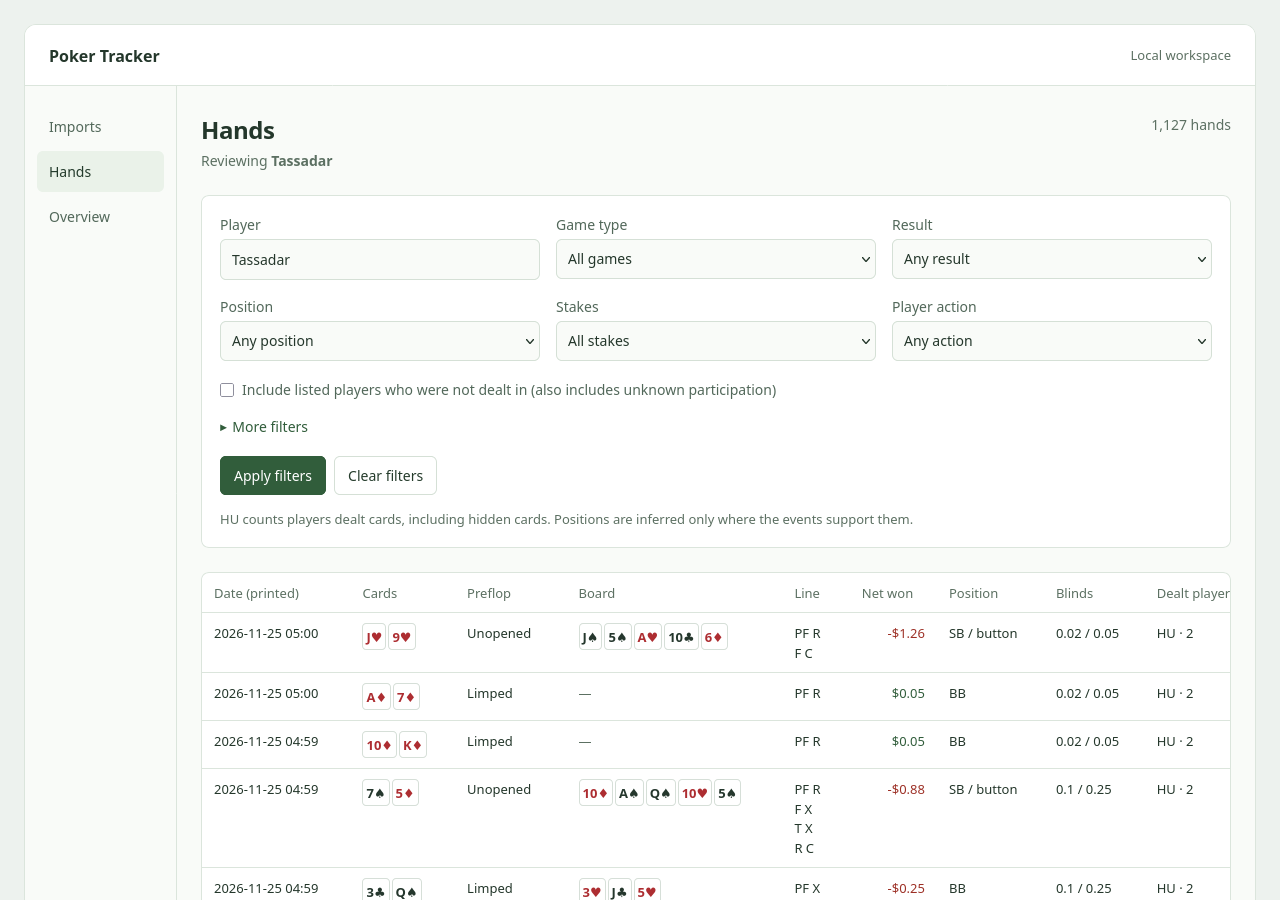
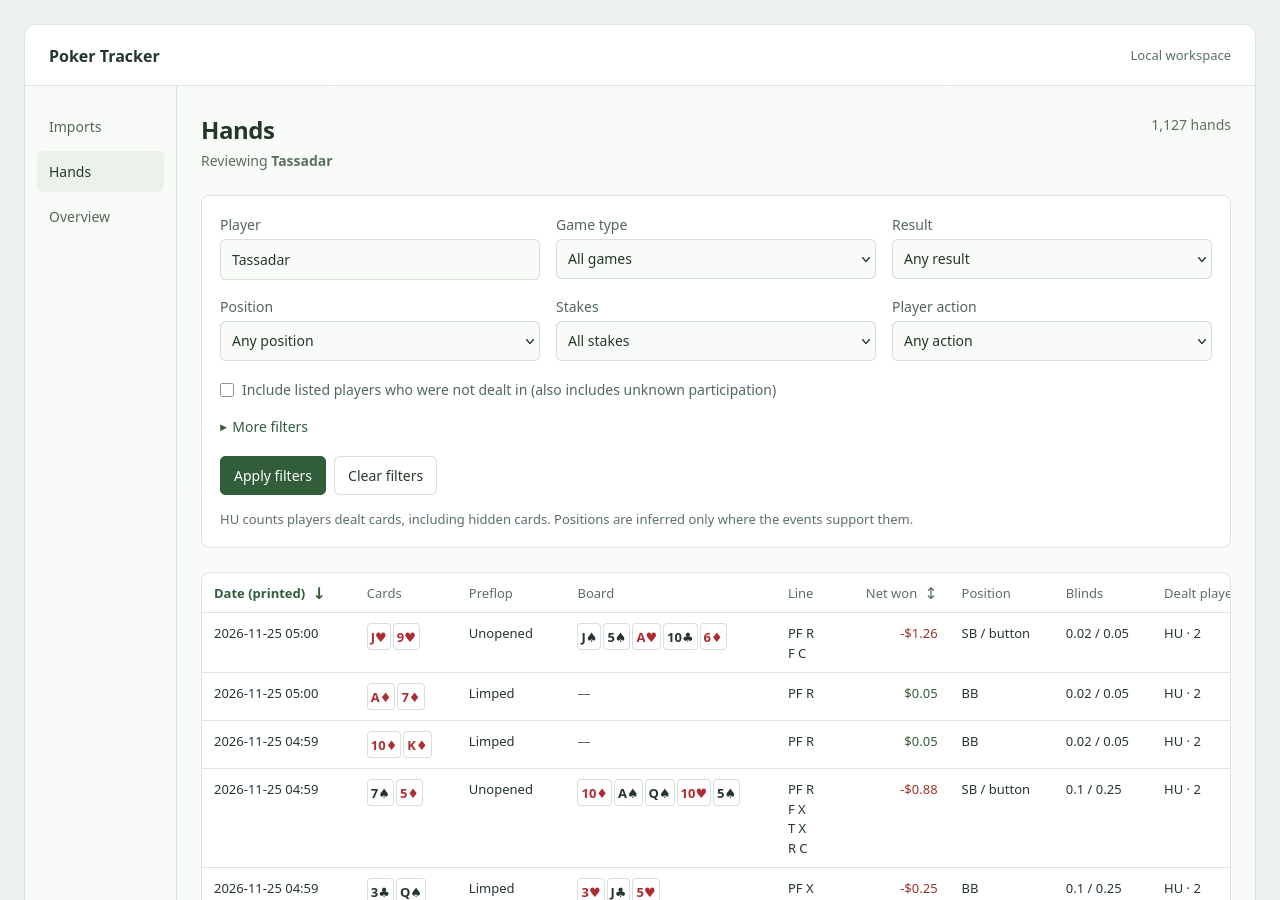
feat(hands): sort date and net won from column headers

diff --git a/frontend/src/features/hands/HandsPage.tsx b/frontend/src/features/hands/HandsPage.tsx
@@ -21,6 +21,8 @@ function HandBrowser({initialPlayer}:{initialPlayer:string}) {
   const [cursors,setCursors]=useState<(string|null)[]>([null]);const cursor=cursors.at(-1)??null;
   const [selected,setSelected]=useState<{source:string;id:string}|null>(null);
   const [validation,setValidation]=useState<string|null>(null);
+  const moreFilters=useRef<HTMLDetailsElement>(null);
+  const moneyUnit=useRef<HTMLSelectElement>(null);
   const {data,error,loading,reload}=usePoll(async signal=>{
     const [hands,imports]=await Promise.all([api.hands({...filters,cursor} satisfies HandFilters,signal),api.imports(null,signal)]);
     const revision=JSON.stringify(imports.items.filter(job=>job.status!=='queued'&&job.status!=='processing').map(job=>[job.job_id,job.status,job.counts]))+hands.total;
@@ -38,13 +40,31 @@ function HandBrowser({initialPlayer}:{initialPlayer:string}) {
   function field<K extends keyof Draft>(key:K,value:Draft[K]){setDraft(old=>({...old,[key]:value,...(key==='action'&&!value?{street:''}:{})}));}
   const actor=Boolean(draft.player);
   function select(label:string,key:keyof Draft,choices:[string,string][],disabled=false) {
-    return <label>{label}<select value={String(draft[key])} disabled={disabled} onChange={e=>field(key,e.target.value as never)}>{choices.map(([value,name])=><option key={value} value={value}>{name}</option>)}</select></label>;
+    return <label>{label}<select ref={key==='unit'?moneyUnit:undefined} value={String(draft[key])} disabled={disabled} onChange={e=>field(key,e.target.value as never)}>{choices.map(([value,name])=><option key={value} value={value}>{name}</option>)}</select></label>;
   }
   function apply(event:React.SubmitEvent<HTMLFormElement>){
     event.preventDefault();setValidation(null);
     if(draft.from&&draft.to&&draft.from>draft.to){setValidation('From must be earlier than or equal to To.');return;}
     if(actor&&(draft.net_min||draft.net_max||draft.sort.startsWith('net_'))&&!draft.unit&&(available?.units.length??0)>1){setValidation('Select a money unit before numeric bounds or money sorting.');return;}
     setFilters({...draft});setCursors([null]);setSelected(null);reload();
+  }
+  function sortColumn(column:'date'|'net') {
+    const sort=filters.sort===`${column}_desc`?`${column}_asc`:`${column}_desc`;
+    let unit=filters.unit;
+    if(column==='net') {
+      if(!filters.player||draft.player!==filters.player||!available)return;
+      unit=draft.unit||filters.unit;
+      if(available.units.length>1&&!unit) {
+        setValidation('Select a money unit under More filters, then click Net won again.');
+        if(moreFilters.current)moreFilters.current.open=true;
+        moneyUnit.current?.focus();
+        return;
+      }
+    }
+    setValidation(null);
+    setFilters(old=>({...old,sort,unit}));
+    setDraft(old=>({...old,sort,...(column==='net'?{unit}:{})}));
+    setCursors([null]);setSelected(null);reload();
   }
   return <>
     <div className="page-heading"><div><h1>Hands</h1><p className="muted">{filters.player?<>Reviewing <strong>{filters.player}</strong></>:'Select a player to see cards, results and betting lines.'}</p></div>{data&&<span className="library-count">{data.hands.total.toLocaleString()} hands</span>}</div>
@@ -58,7 +78,7 @@ function HandBrowser({initialPlayer}:{initialPlayer:string}) {
         {select('Player action','action',[['','Any action'],['RAISE','Raise'],['CALL','Call'],['BET','Bet'],['CHECK','Check'],['FOLD','Fold']],!actor)}
       </div>
       <label className="checkbox-label"><input type="checkbox" checked={draft.include_not_dealt} disabled={!actor} onChange={e=>field('include_not_dealt',e.target.checked)}/>Include listed players who were not dealt in (also includes unknown participation)</label>
-      <details className="extra-filters"><summary>More filters</summary><div className="form-grid">
+      <details className="extra-filters" ref={moreFilters}><summary>More filters</summary><div className="form-grid">
         <label>From (printed time)<input type="datetime-local" step={60} value={draft.from} onChange={e=>field('from',e.target.value)}/></label>
         <label>To (printed time)<input type="datetime-local" step={60} value={draft.to} onChange={e=>field('to',e.target.value)}/></label>
         <label>Table name<input value={draft.table_name} onChange={e=>field('table_name',e.target.value)} placeholder="Exact table name"/></label>
@@ -75,11 +95,30 @@ function HandBrowser({initialPlayer}:{initialPlayer:string}) {
     {validation&&<p role="alert" className="error">{validation}</p>}{error&&<p role="alert" className="error">{error} <button onClick={reload}>Try again</button></p>}
     {!data&&!error&&<p role="status">Loading hands…</p>}
     {data&&<>
-      {data.hands.items.length?<div className="table-scroll hand-grid" role="region" aria-label="Hand grid, scroll horizontally for all columns" tabIndex={0} aria-busy={loading}><table aria-label="Hand results"><thead><tr>{['Date (printed)','Cards','Preflop','Board','Line','Net won','Position','Blinds','Dealt players','Stack','Table'].map(label=><th key={label}>{label}</th>)}</tr></thead><tbody>{data.hands.items.map(hand=><HandRow key={`${hand.source_id}:${hand.hand_id}`} hand={hand} actor={Boolean(filters.player)} selected={selected?.id===hand.hand_id&&selected?.source===hand.source_id} open={()=>setSelected({source:hand.source_id,id:hand.hand_id})}/>)}</tbody></table></div>:<div className="empty"><h2>No hands found</h2><p className="muted">Import a JSON export or adjust the filters.</p><a href="#imports">Go to Imports</a></div>}
+      {data.hands.items.length?<div className="table-scroll hand-grid" role="region" aria-label="Hand grid, scroll horizontally for all columns" tabIndex={0} aria-busy={loading}><table aria-label="Hand results"><thead><tr>
+        <SortHeader label="Date (printed)" column="date" sort={filters.sort} onSort={()=>sortColumn('date')}/>
+        {['Cards','Preflop','Board','Line'].map(label=><th scope="col" key={label}>{label}</th>)}
+        <SortHeader label="Net won" column="net" sort={filters.sort} onSort={()=>sortColumn('net')}
+          disabled={!filters.player||draft.player!==filters.player||!available}
+          reason={!filters.player||draft.player!==filters.player?'Select a player and apply filters to sort net won.':!available?'Loading money units…':undefined}/>
+        {['Position','Blinds','Dealt players','Stack','Table'].map(label=><th scope="col" key={label}>{label}</th>)}
+      </tr></thead><tbody>{data.hands.items.map(hand=><HandRow key={`${hand.source_id}:${hand.hand_id}`} hand={hand} actor={Boolean(filters.player)} selected={selected?.id===hand.hand_id&&selected?.source===hand.source_id} open={()=>setSelected({source:hand.source_id,id:hand.hand_id})}/>)}</tbody></table></div>:<div className="empty"><h2>No hands found</h2><p className="muted">Import a JSON export or adjust the filters.</p><a href="#imports">Go to Imports</a></div>}
       {(cursors.length>1||data.hands.next_cursor)&&<div className="pagination"><button disabled={loading||cursors.length===1} onClick={()=>setCursors(old=>old.slice(0,-1))}>Previous hands</button><button disabled={loading||!data.hands.next_cursor} onClick={()=>setCursors(old=>[...old,data.hands.next_cursor])}>Next hands</button></div>}
     </>}
     {selected&&<HandDetails key={`${selected.source}:${selected.id}`} source={selected.source} id={selected.id} onClose={()=>setSelected(null)}/>}
   </>;
+}
+
+function SortHeader({label,column,sort,onSort,disabled=false,reason}:{label:string;column:'date'|'net';sort:string;onSort:()=>void;disabled?:boolean;reason?:string}) {
+  const active=sort.startsWith(`${column}_`);
+  const ascending=sort.endsWith('_asc');
+  const nextAscending=active&&!ascending;
+  const title=reason??(column==='net'?`Sort net won ${nextAscending?'lowest':'highest'} first`:`Sort date ${nextAscending?'oldest':'newest'} first`);
+  return <th scope="col" className={column==='net'?'numeric':undefined} aria-sort={active?(ascending?'ascending':'descending'):undefined}>
+    <button type="button" className="column-sort" onClick={onSort} disabled={disabled} title={title}>
+      {label}<span aria-hidden="true">{active?(ascending?'↑':'↓'):'↕'}</span>
+    </button>
+  </th>;
 }
 
 function HandRow({hand:h,actor,selected,open}:{hand:HandSummary;actor:boolean;selected:boolean;open:()=>void}) {

diff --git a/frontend/src/features/hands/HandFilters.test.tsx b/frontend/src/features/hands/HandFilters.test.tsx
@@ -108,3 +108,73 @@ test('refreshes new money units after an import without overwriting filter draft
   await waitFor(()=>expect(within(screen.getByLabelText('Money unit')).getByText('PHP (₱)')).toBeInTheDocument(),{timeout:2500});
   expect(screen.getByLabelText('Table name')).toHaveValue('Draft table');
 });
+
+test('Net won header sorts the full result set both ways and resets the page',async()=>{
+  const {requests,user}=setup();render(<HandsPage/>);
+  await screen.findByRole('button',{name:/Open Reading hand/});
+  await user.click(screen.getByRole('button',{name:'Next hands'}));
+  await waitFor(()=>expect(requests.at(-1)?.get('cursor')).toBe('second'));
+  await user.click(screen.getByRole('button',{name:'Net won'}));
+  await waitFor(()=>expect(requests.at(-1)?.get('sort')).toBe('net_desc'));
+  expect(requests.at(-1)?.get('player')).toBe('Tassadar');
+  expect(requests.at(-1)?.has('cursor')).toBe(false);
+  expect(screen.getByRole('columnheader',{name:'Net won'})).toHaveAttribute('aria-sort','descending');
+  expect(screen.getByLabelText('Sort')).toHaveValue('net_desc');
+  await user.click(screen.getByRole('button',{name:'Net won'}));
+  await waitFor(()=>expect(requests.at(-1)?.get('sort')).toBe('net_asc'));
+  expect(screen.getByRole('columnheader',{name:'Net won'})).toHaveAttribute('aria-sort','ascending');
+});
+
+test('Date header toggles order and shares the applied sort with More filters',async()=>{
+  const {requests,user}=setup();render(<HandsPage/>);
+  await screen.findByRole('button',{name:/Open Reading hand/});
+  expect(screen.getByRole('columnheader',{name:'Date (printed)'})).toHaveAttribute('aria-sort','descending');
+  await user.click(screen.getByRole('button',{name:'Date (printed)'}));
+  await waitFor(()=>expect(requests.at(-1)?.get('sort')).toBe('date_asc'));
+  expect(screen.getByRole('columnheader',{name:'Date (printed)'})).toHaveAttribute('aria-sort','ascending');
+  await user.click(screen.getByText('More filters'));
+  await user.selectOptions(screen.getByLabelText('Sort'),'net_asc');
+  await user.click(screen.getByRole('button',{name:'Apply filters'}));
+  await waitFor(()=>expect(requests.at(-1)?.get('sort')).toBe('net_asc'));
+  expect(screen.getByRole('columnheader',{name:'Net won'})).toHaveAttribute('aria-sort','ascending');
+  expect(screen.getByRole('columnheader',{name:'Date (printed)'})).not.toHaveAttribute('aria-sort');
+  await user.click(screen.getByRole('button',{name:'Date (printed)'}));
+  await waitFor(()=>expect(requests.at(-1)?.get('sort')).toBe('date_desc'));
+});
+
+test('header sorting preserves unapplied drafts and current applied filters',async()=>{
+  const {requests,user}=setup();render(<HandsPage/>);
+  await screen.findByRole('button',{name:/Open Reading hand/});
+  await user.selectOptions(screen.getByLabelText('Game type'),'HU');
+  await user.click(screen.getByRole('button',{name:'Apply filters'}));
+  await waitFor(()=>expect(requests.at(-1)?.get('game_type')).toBe('HU'));
+  await user.type(screen.getByLabelText('Table name'),'Unapplied table');
+  await user.click(screen.getByRole('button',{name:'Net won'}));
+  await waitFor(()=>expect(requests.at(-1)?.get('sort')).toBe('net_desc'));
+  expect(requests.at(-1)?.get('game_type')).toBe('HU');
+  expect(requests.at(-1)?.has('table_name')).toBe(false);
+  expect(screen.getByLabelText('Table name')).toHaveValue('Unapplied table');
+});
+
+test('Net won sorting guides a mixed-unit selection and does not silently compare currencies',async()=>{
+  const {requests,user}=setup('Tassadar',true);render(<HandsPage/>);
+  await screen.findByRole('button',{name:/Open Reading hand/});
+  await user.click(screen.getByRole('button',{name:'Net won'}));
+  expect(await screen.findByRole('alert')).toHaveTextContent('Select a money unit');
+  expect(screen.getByLabelText('Money unit').closest('details')).toHaveAttribute('open');
+  expect(screen.getByLabelText('Money unit')).toHaveFocus();
+  expect(requests.at(-1)?.get('sort')).toBe('date_desc');
+  await user.selectOptions(screen.getByLabelText('Money unit'),'peso');
+  await user.click(screen.getByRole('button',{name:'Net won'}));
+  await waitFor(()=>expect(requests.at(-1)?.get('sort')).toBe('net_desc'));
+  expect(requests.at(-1)?.get('unit')).toBe('peso');
+  expect(screen.queryByRole('alert')).not.toBeInTheDocument();
+});
+
+test('Net won header requires an applied player while Date works in all-hands mode',async()=>{
+  const {requests,user}=setup(null);render(<HandsPage/>);
+  await screen.findByRole('button',{name:/Open Reading hand/});
+  expect(screen.getByRole('button',{name:'Net won'})).toBeDisabled();
+  await user.click(screen.getByRole('button',{name:'Date (printed)'}));
+  await waitFor(()=>expect(requests.at(-1)?.get('sort')).toBe('date_asc'));
+});

diff --git a/frontend/src/styles.css b/frontend/src/styles.css
@@ -4,3 +4,4 @@
 @media(min-width:1289px){.workspace{margin-left:auto;margin-right:auto}}@media(max-width:1288px){.workspace{margin:24px}}@media(max-width:900px){.summary-grid{grid-template-columns:repeat(2,minmax(0,1fr))}}@media(max-width:700px){.workspace{margin:12px;min-height:calc(100vh - 24px)}.app-layout{grid-template-columns:1fr}.app-header{padding:16px 18px}nav{flex-direction:row;gap:4px;border-right:0;border-bottom:1px solid #dbe5dc;padding:8px 10px}nav a{flex:1;text-align:center}main{padding:22px 18px}.watch-controls{flex-direction:column;align-items:stretch}.form-grid{grid-template-columns:1fr}.page-heading{align-items:center}.page-heading p{max-width:28ch}td,th{padding-right:12px}.panel{padding:16px}.section-top{flex-wrap:wrap}.source-settings p{max-width:42ch}.hand-phase{padding-left:10px}.hand-phase .table-scroll{overflow:visible}.hand-phase table,.hand-phase tbody{display:block}.hand-phase tr{display:grid;grid-template-columns:minmax(0,1fr) minmax(0,1fr) auto;gap:4px 12px;padding:10px 0;border-bottom:1px solid #dbe5dc}.hand-phase td:nth-child(n){display:block;width:auto;border:0;padding:0}.hand-phase td:nth-child(4){grid-column:1/-1;padding-top:4px}.playing-card{min-width:27px}.observed,.health{gap:20px}.summary-grid{gap:10px}.summary{margin-bottom:14px}}
 select{display:block;width:100%;min-width:0;margin-top:4px;font-size:.875rem;color:#24372b;background:#f9fbf8;border:1px solid #d5e0d6;border-radius:6px;padding:9px 11px}select:focus-visible{outline:3px solid #608c69;outline-offset:3px}.checkbox-label{display:flex;align-items:flex-start;gap:8px;margin-bottom:16px}.checkbox-label input{width:auto;margin-top:4px}.extra-filters{margin:0 0 18px}.extra-filters summary{cursor:pointer;font-size:.875rem;color:#315d3b}.extra-filters .form-grid{margin-top:16px}.hand-filters>.helper{margin-top:14px}.hand-grid table{min-width:1240px}.hand-grid th,.hand-grid td{white-space:nowrap;font-size:.8125rem;padding:10px 12px}.hand-grid .playing-card{min-width:22px;height:27px;padding:2px 3px;font-size:.8125rem}.hand-grid .cards{gap:2px;flex-wrap:nowrap}.hand-grid .runout+.runout{margin-top:4px}.betting-line{display:block;font-variant-numeric:tabular-nums}.hand-grid .text-button{font-size:.8125rem}.hand-grid{border:1px solid #dbe5dc;border-radius:8px;background:#fff}.hand-grid[aria-busy=true]{opacity:.7}
 .checkbox-label input{flex:0 0 auto}.hand-grid:focus-visible{outline:3px solid #608c69;outline-offset:3px}
+.hand-grid .column-sort{display:inline-flex;align-items:center;gap:7px;padding:0;border:0;border-radius:2px;background:none;color:inherit;font:inherit;white-space:nowrap}.hand-grid .column-sort:hover:not(:disabled){background:none;color:#315d3b;text-decoration:underline}.column-sort span{font-size:1rem;line-height:1}.hand-grid th[aria-sort]{color:#315d3b;font-weight:600}

diff --git a/docs/handoffs/2026-11-26-hand-filters.md b/docs/handoffs/2026-11-26-hand-filters.md
@@ -11,7 +11,13 @@ without changing that setting. With no hero, the all-hands browser remains avail
 Apply filters together: game type, result, nominal stakes, primary position and player
 betting action. More filters contains printed date bounds, exact table, action street,
 exact net bounds, money context and date/net ordering. Changing the query resets its
-keyset pagination. New completed imports refresh options and preserve drafts.
+keyset pagination. New completed imports refresh options and preserve drafts. Date and Net won
+headers also apply sorting immediately: the first click on a new column is descending,
+then further clicks alternate ascending/descending. Sort arrows and screen-reader
+`aria-sort` reflect the applied query, and the More filters dropdown stays synchronized.
+Header sorting keeps active predicates and pending drafts; an un-applied player change
+must be applied before sorting Net won. If money contexts are mixed, the header opens
+More filters and focuses the required unit selector.
 
 The grid shows printed date, private cards, preflop situation, both boards, ordered
 street lines, original net display, position, blind posts, dealt count, starting stack
@@ -93,3 +99,14 @@ so inference is labelled); implicit-unit cursor policy (a newly mixed context re
 selection); adversarial deeply nested token hardening (no demonstrated ordinary local
 use failure, no advanced parser-hardening claim). These do not add seat analytics,
 HUD, replay, sessions, EV/equity or advanced statistics to this iteration.
+
+## Column-header sorting follow-up
+
+Added Date/Net won header buttons over the existing server-side sorting contract;
+no database changes or reimport. Five new regressions cover direction toggles, global
+query/pagination reset, dropdown synchronization, unapplied drafts, mixed units and
+all-hands mode. Frontend suite: 24 tests pass; production build passes. Existing backend
+filter/sort integration tests: 23 pass. Production Firefox checks at 1280px and a true
+390px viewport pass, including header clicks rendering actual ASGI-sorted largest
+($34.86) and smallest (-$20.45) results from the disposable sample library. The original full-suite evidence above
+precedes this UI-only follow-up.

diff --git a/README.md b/README.md
@@ -55,6 +55,9 @@ observers are excluded for a selected player until **Include listed players…**
 checked. Ambiguous participation, stakes and inferred positions remain Unknown.
 SB includes the HU button; BTN means a separate button with 3+ dealt players. The
 compact grid scrolls horizontally for its remaining columns on narrow screens.
+Click **Date** or **Net won** in the grid header to toggle descending/ascending order
+across all matching hands. The arrow shows the active order; sorting resets pagination
+and preserves other filter drafts. Net won requires an applied player selection.
 
 Net amounts stay exact and preserve their original display. Numeric net bounds and
 net sorting require one money context; select a unit when contexts are mixed.
